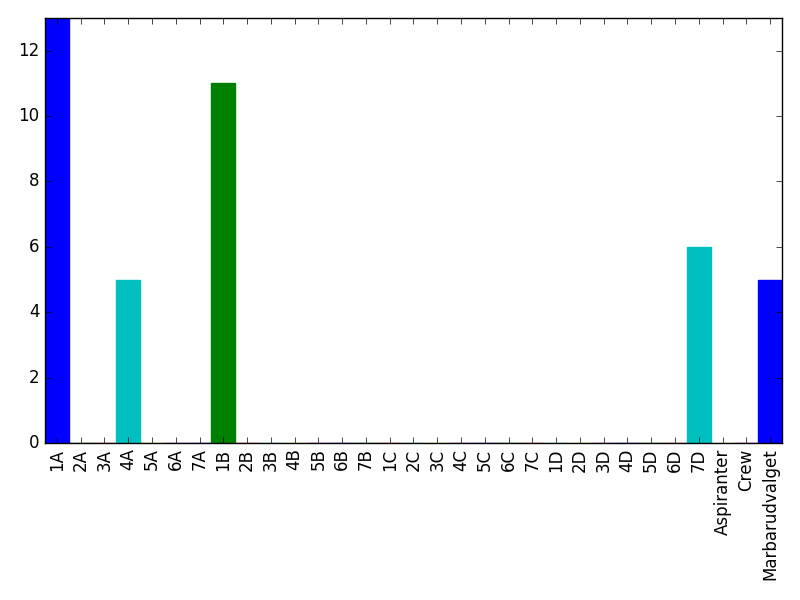
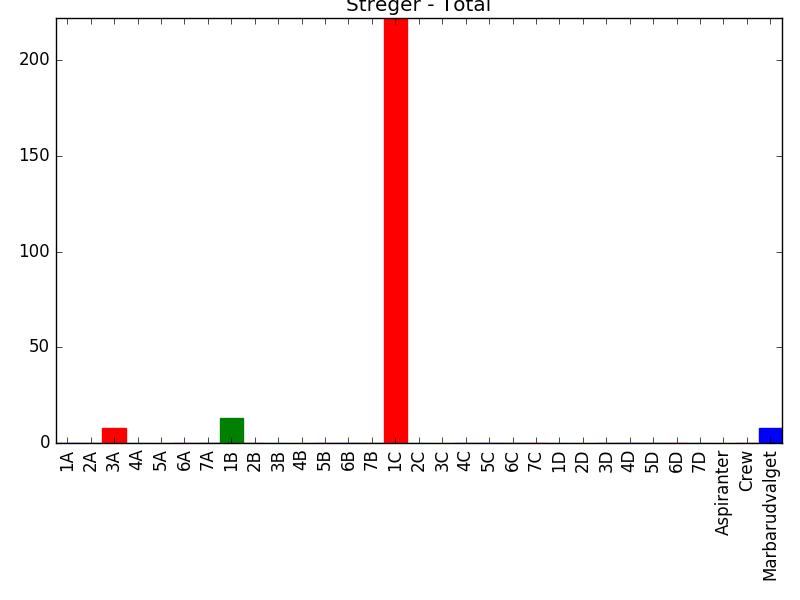
ting og sager

Changed region(s): [[0.0312, 0.0, 0.9375, 0.9], [0.9375, 0.45, 1.0, 0.72], [0.5625, 0.0, 0.625, 0.03]]

diff --git a/interface.php b/interface.php
@@ -8,59 +8,91 @@
   <meta name="viewport" content="width=device-width, initial-scale=1">
   <link rel="stylesheet" href="https://maxcdn.bootstrapcdn.com/bootstrap/3.3.7/css/bootstrap.min.css">
   <script src="https://maxcdn.bootstrapcdn.com/bootstrap/3.3.7/js/bootstrap.min.js"></script>
+  
 </head>
+
+<style>
+.top-buffer {
+    margin-top:40px;
+}
+
+.btn-block {
+    height: 70px;
+    margin: 10px;
+}
+
+.form-control{
+    margin: 10px;
+    height: 70px; 
+}
+</style>
+
 <body>
 
 
 <form action="update.php" method="post" class="ajax">
-
-    <div class="form-group">
-        <input type="hidden" id="kitchen" name="kitchen">
-        <input type="number" id="streger" name="streger" placeholder="streger">
-    </div>
+    <div class=container-fluid">
+        <div class="row">
+            <div class=col-sm-4>
+                <div class="form-group">
+                    <input type="hidden" id="kitchen" name="kitchen">
+                </div>
+                <div class="form-group">
+                    <input type="number" class="form-control" id="streger" name="streger" placeholder="streger">
+                </div>
+            </div>
+        </div>
+   
     
-    <div>
-        <div>
-            <input type="button" value="1A" class="kbutton btn btn-default">
-            <input type="button" value="2A" class="kbutton btn btn-default">
-            <input type="button" value="3A" class="kbutton btn btn-default">
-            <input type="button" value="4A" class="kbutton btn btn-default">
-            <input type="button" value="5A" class="kbutton btn btn-default">
-            <input type="button" value="6A" class="kbutton btn btn-default">
-            <input type="button" value="7A" class="kbutton btn btn-default">
+    
+        <div class="row">
+            <div class="col-sm-1">
+                <input type="button" value="1A" class="kbutton btn btn-default btn-lg btn-block">
+                <input type="button" value="2A" class="kbutton btn btn-default btn-lg btn-block">
+                <input type="button" value="3A" class="kbutton btn btn-default btn-lg btn-block"">
+                <input type="button" value="4A" class="kbutton btn btn-default btn-lg btn-block"">
+                <input type="button" value="5A" class="kbutton btn btn-default btn-lg btn-block"">
+                <input type="button" value="6A" class="kbutton btn btn-default btn-lg btn-block"">
+                <input type="button" value="7A" class="kbutton btn btn-default btn-lg btn-block"">
+            </div>  
+            <div class="col-sm-1">
+                <input type="button" value="1B" class="kbutton btn btn-default btn-lg btn-block"">
+                <input type="button" value="2B" class="kbutton btn btn-default btn-lg btn-block"">
+                <input type="button" value="3B" class="kbutton btn btn-default btn-lg btn-block"">
+                <input type="button" value="4B" class="kbutton btn btn-default btn-lg btn-block"">
+                <input type="button" value="5B" class="kbutton btn btn-default btn-lg btn-block"">
+                <input type="button" value="6B" class="kbutton btn btn-default btn-lg btn-block"">
+                <input type="button" value="7B" class="kbutton btn btn-default btn-lg btn-block"">
+            </div>
+            <div class="col-sm-1">
+                <input type="button" value="1C" class="kbutton btn btn-default btn-lg btn-block"">
+                <input type="button" value="2C" class="kbutton btn btn-default btn-lg btn-block"">
+                <input type="button" value="3C" class="kbutton btn btn-default btn-lg btn-block"">
+                <input type="button" value="4C" class="kbutton btn btn-default btn-lg btn-block"">
+                <input type="button" value="5C" class="kbutton btn btn-default btn-lg btn-block"">
+                <input type="button" value="6C" class="kbutton btn btn-default btn-lg btn-block"">
+                <input type="button" value="7C" class="kbutton btn btn-default btn-lg btn-block"">
+            </div>
+            <div class="col-sm-1">
+                <input type="button" value="1D" class="kbutton btn btn-default btn-lg btn-block"">
+                <input type="button" value="2D" class="kbutton btn btn-default btn-lg btn-block"">
+                <input type="button" value="3D" class="kbutton btn btn-default btn-lg btn-block"">
+                <input type="button" value="4D" class="kbutton btn btn-default btn-lg btn-block"">
+                <input type="button" value="5D" class="kbutton btn btn-default btn-lg btn-block"">
+                <input type="button" value="6D" class="kbutton btn btn-default btn-lg btn-block"">
+                <input type="button" value="7D" class="kbutton btn btn-default btn-lg btn-block"">
+            </div>
         </div>
-        <div>
-            <input type="button" value="1B" class="kbutton btn btn-default">
-            <input type="button" value="2B" class="kbutton btn btn-default">
-            <input type="button" value="3B" class="kbutton btn btn-default">
-            <input type="button" value="4B" class="kbutton btn btn-default">
-            <input type="button" value="5B" class="kbutton btn btn-default">
-            <input type="button" value="6B" class="kbutton btn btn-default">
-            <input type="button" value="7B" class="kbutton btn btn-default">
-        </div>
-        <div>
-            <input type="button" value="1C" class="kbutton btn btn-default">
-            <input type="button" value="2C" class="kbutton btn btn-default">
-            <input type="button" value="3C" class="kbutton btn btn-default">
-            <input type="button" value="4C" class="kbutton btn btn-default">
-            <input type="button" value="5C" class="kbutton btn btn-default">
-            <input type="button" value="6C" class="kbutton btn btn-default">
-            <input type="button" value="7C" class="kbutton btn btn-default">
-        </div>
-        <div>
-            <input type="button" value="1D" class="kbutton btn btn-default">
-            <input type="button" value="2D" class="kbutton btn btn-default">
-            <input type="button" value="3D" class="kbutton btn btn-default">
-            <input type="button" value="4D" class="kbutton btn btn-default">
-            <input type="button" value="5D" class="kbutton btn btn-default">
-            <input type="button" value="6D" class="kbutton btn btn-default">
-            <input type="button" value="7D" class="kbutton btn btn-default">
-        </div>
-        <div>
-            <input type="button" value="Aspiranter" class="kbutton btn btn-default">
-            <input type="button" value="Crew" class="kbutton btn btn-default">
-            <input type="button" value="Marbarudvalget" class="kbutton btn btn-default">
-        </div>
+        <div class="row top-buffer">
+            <div class="col-sm-1">
+                <input type="button" value="Aspiranter" class="kbutton btn btn-default btn-lg btn-block">
+            </div>
+            <div class="col-sm-1">
+                <input type="button" value="Crew" class="kbutton btn btn-default btn-lg btn-block">
+            </div>
+            <div class="col-sm-2">
+                <input type="button" value="Marbarudvalget" class="kbutton btn btn-default btn-lg btn-block">
+            </div>
         
     </div>
 </form>

diff --git a/index.php b/index.php
@@ -1,16 +1,19 @@
 <!DOCTYPE html>
 <html lang="en">
 <head>
-  <title>index</title>
+  <title>MarBar</title>
   <meta charset="utf-8">
+  <meta Http-Equiv="Cache-Control" Content="no-cache">
+  <meta Http-Equiv="Pragma" Content="no-cache">
+  <meta Http-Equiv="Expires" Content="0">
+  <meta Http-Equiv="Pragma-directive: no-cache">
+  <meta Http-Equiv="Cache-directive: no-cache">
   <meta name="viewport" content="width=device-width, initial-scale=1">
   <link rel="stylesheet" href="odometer/themes/odometer-theme-car.css" />
   <link rel="stylesheet" href="https://maxcdn.bootstrapcdn.com/bootstrap/3.3.7/css/bootstrap.min.css">
   <script src="https://ajax.googleapis.com/ajax/libs/jquery/3.1.1/jquery.min.js"></script>
   <script src="https://maxcdn.bootstrapcdn.com/bootstrap/3.3.7/js/bootstrap.min.js"></script>
   <script src="odometer/odometer.js"></script>
-  <script src="includes/jcarousel/dist/jquery.jcarousel.min.js"></script>
-  
   <script>
     window.odometerOptions = {
         format: 'd'
@@ -199,9 +202,11 @@
 
 
 <script id="source" language="javascript" type="text/javascript">
+  $.ajaxSetup({cache: false});
   $( document ).ready(function() {
       graphCarousel();
       instagramCarousel();
+      $.ajaxSetup({ cache: true });
   });
 
   function update() {
@@ -223,6 +228,7 @@
   setInterval(update, 500);
   
   function graphCarousel(){
+  
     $.ajax({                                      
              url: 'includes/get_images.php',                    
              data: "",                        
@@ -232,6 +238,7 @@
                     html += "<div class='carousel-inner' role='listbox'>";
                 
                 var style = "style='width:500px;height:500px;'"
+                var nocache = "?" + (new Date()).getTime();
                 var i = true;
                 data.forEach(function(image) {
                     var item = "";
@@ -241,7 +248,7 @@
                     } else {
                         item += "<div class='item'>"; 
                     }
-                    item += "<img src='images/graphs/" + image + "' " + style + ">";
+                    item += "<img src='images/graphs/" + image + nocache + "' " + style + ">";
                     item += "</div>";
                     html += item;
                     i = false;
@@ -249,7 +256,7 @@
                 
                 html += "</div>";
                 html += "</div>";
-                
+                $('#graphCarousel').remove()
                 $('#graphSlider').html(html);
                 $('#graphCarousel').carousel({interval:3000});                
            
@@ -269,6 +276,7 @@
                     html += "<div class='carousel-inner' role='listbox'>";
                 
                 var style = "style='width:500px;height:500px;'"
+                var nocache = "?" + (new Date()).getTime();
                 var i = true;
                 data.forEach(function(image) {
                     if(image === null) { return; }
@@ -279,7 +287,7 @@
                     } else {
                         item += "<div class='item'>"; 
                     }
-                    item += "<img src='" + image + "' " + style + ">";
+                    item += "<img src='" + image + nocache + "' " + style + ">";
                     item += "</div>";
                     html += item;
                     i = false;

diff --git a/python/graphplot.py b/python/graphplot.py
@@ -1,0 +1,44 @@
+import matplotlib.pyplot as plt
+import numpy as np
+import csv
+
+csvfile = 'data.csv'
+
+load = []
+
+with open(csvfile, 'r') as f:
+    reader = csv.reader(f, lineterminator='\n')
+    for row in reader:
+        load.append(row)
+
+load = np.array(load)
+
+labels = load[0]
+data = load[-20:,3:].transpose()
+time = load[1:,0:3]
+time_s = []
+
+for t in time:
+    time_s.append(t[1] + ':' + t[2])
+
+time_s = np.array(time_s)
+
+x = np.arange(len(data[0])-1)
+#plt.figure(figsize=(6,8))
+for d in data:
+    label = d[0]
+    d = np.array(d[1:])
+    
+    
+    plt.plot(x, d)
+    plt.text(x[-1],d[-1],label)
+
+plt.title('Akkumuleret streger')
+#plt.tight_layout()
+plt.margins(0.0)
+plt.xticks(x, time_s, rotation='vertical')
+plt.savefig('../images/graphs/graphplot.png')
+
+#lgd = plt.legend(labels[3:],bbox_to_anchor=(1.01, 1.02), loc=2, ncol=2, borderaxespad=0., #fancybox=True, shadow=True)
+#plt.savefig('../images/graphs/graphplot.png',bbox_extra_artists=(lgd,), bbox_inches='tight')
+#plt.show()

diff --git a/python/barplot.py b/python/barplot.py
@@ -26,8 +26,8 @@ barlist = plt.bar(np.arange(len(data)), data, width=1.0, align='center')
 for i in range(len(data)):
     barlist[i].set_color(colors[i])
 
-
 plt.xticks(np.arange(len(data)), labels, rotation='vertical')
 plt.margins(0.0)
 plt.tight_layout()
+plt.title('Streger - Total')
 plt.savefig('../images/graphs/barplot.png')

diff --git a/python/server.py b/python/server.py
@@ -7,7 +7,7 @@ import barplot
 import os 
 
 running = True
-graphs = ['python barplot.py']
+graphs = ['python barplot.py', 'python graphplot.py']
 
 def appenddata():
     db = MySQLdb.connect(host="localhost",    # your host, usually localhost
